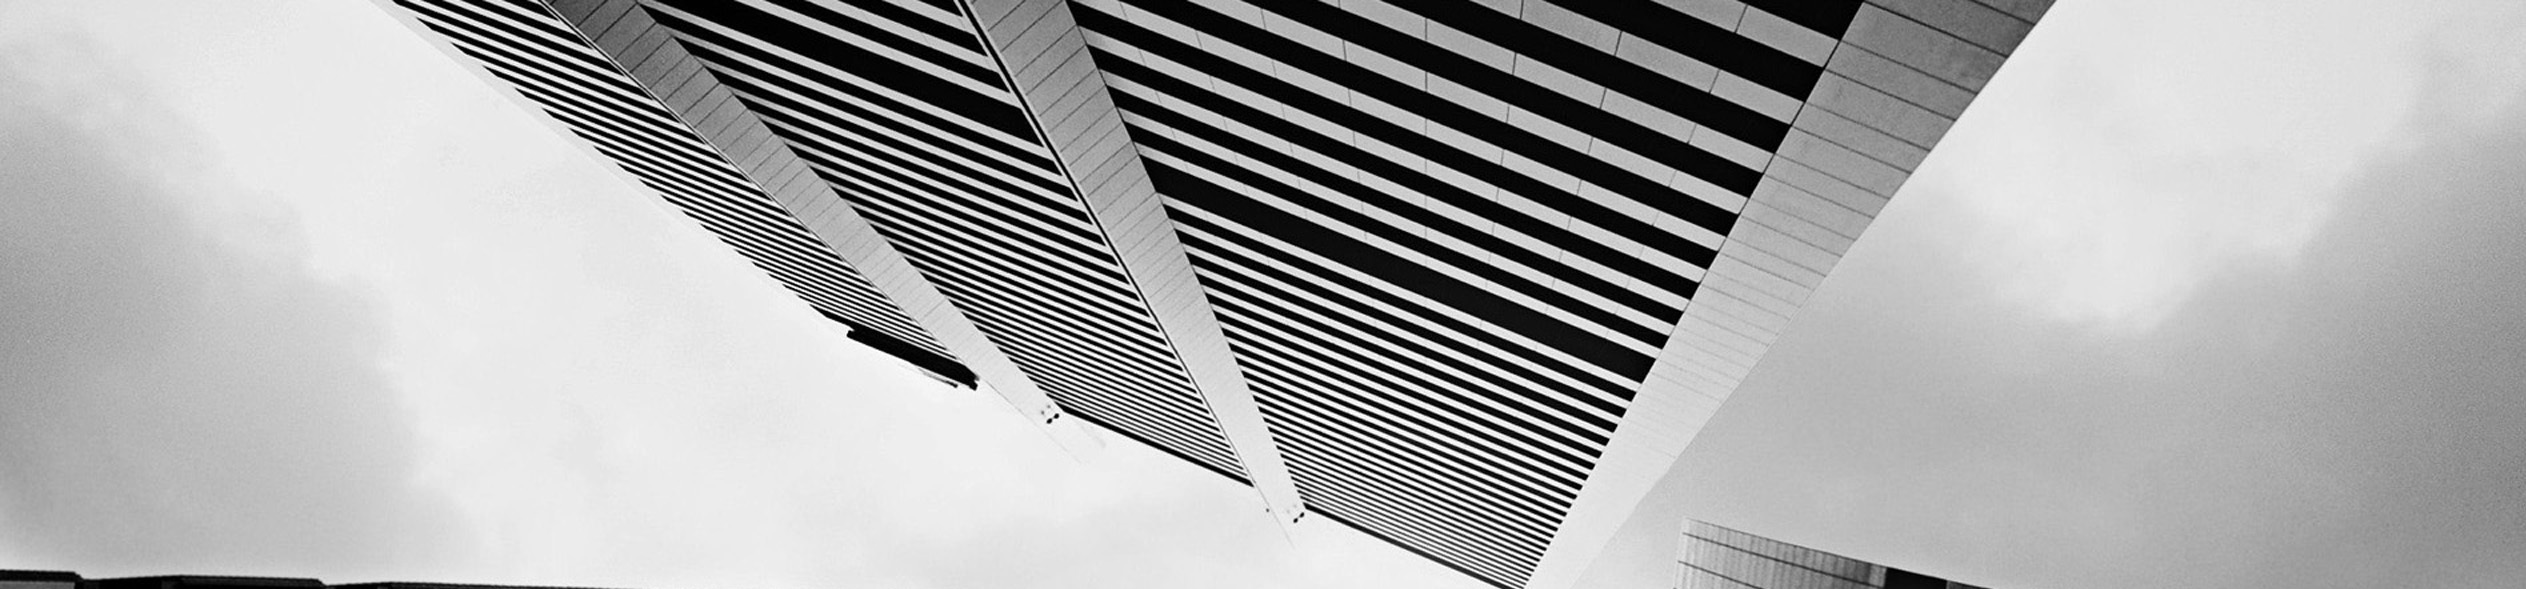
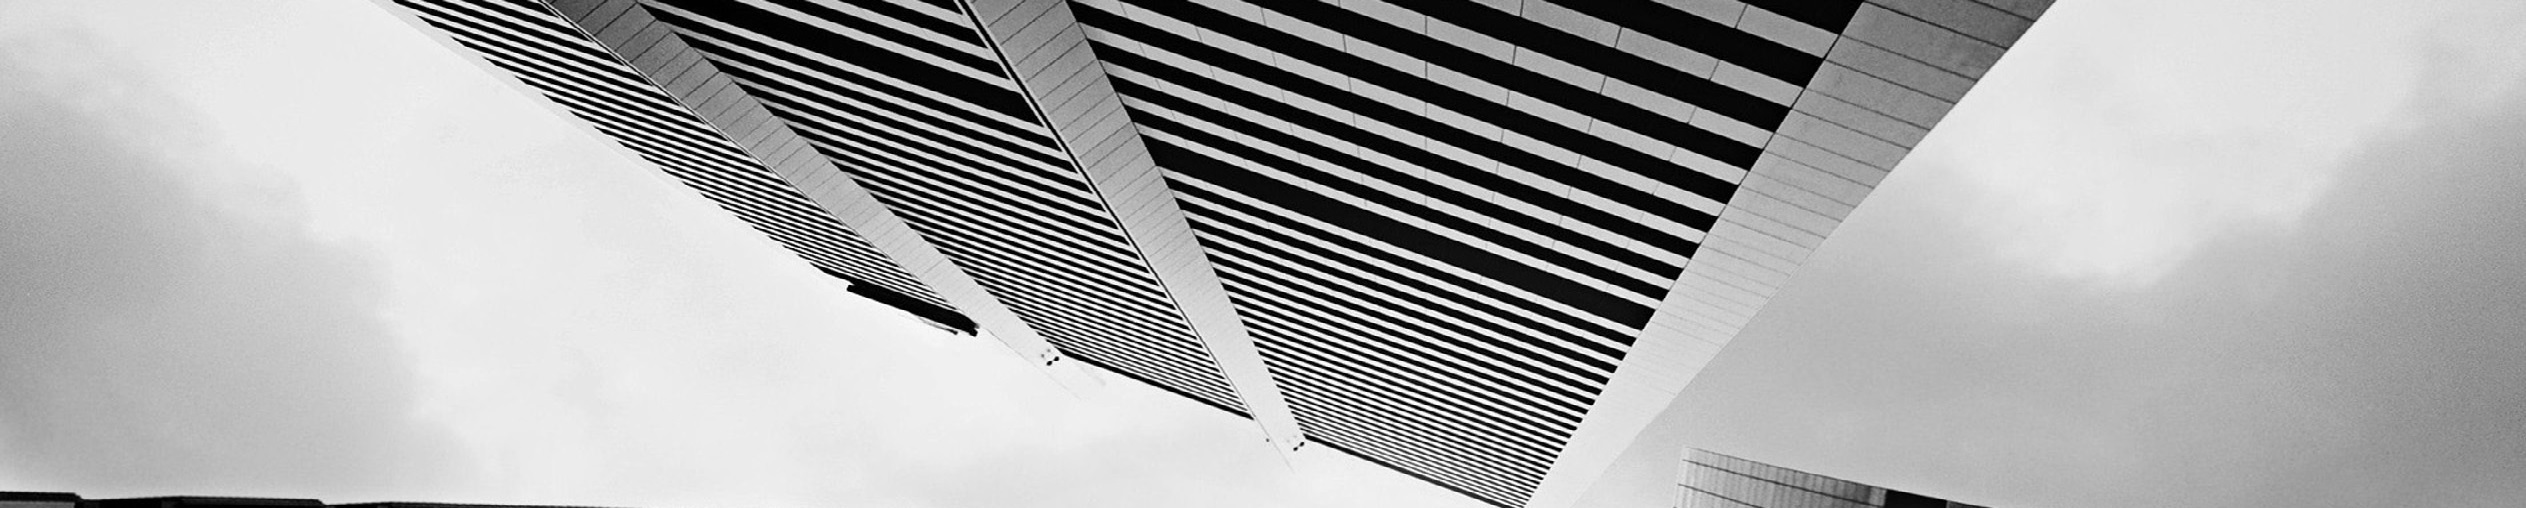
1

diff --git a/public/stylesheets/main.css b/public/stylesheets/main.css
@@ -31,5 +31,5 @@ table {
 	
 #bg{
 	background:url('../background.jpg') no-repeat center center;
-    height: 350px;
+    height: 225px;
 }
